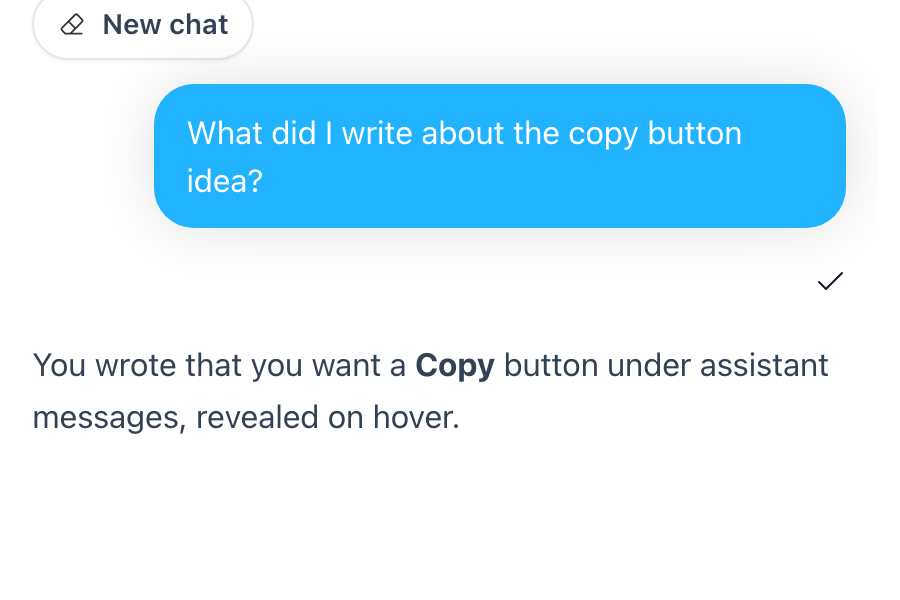
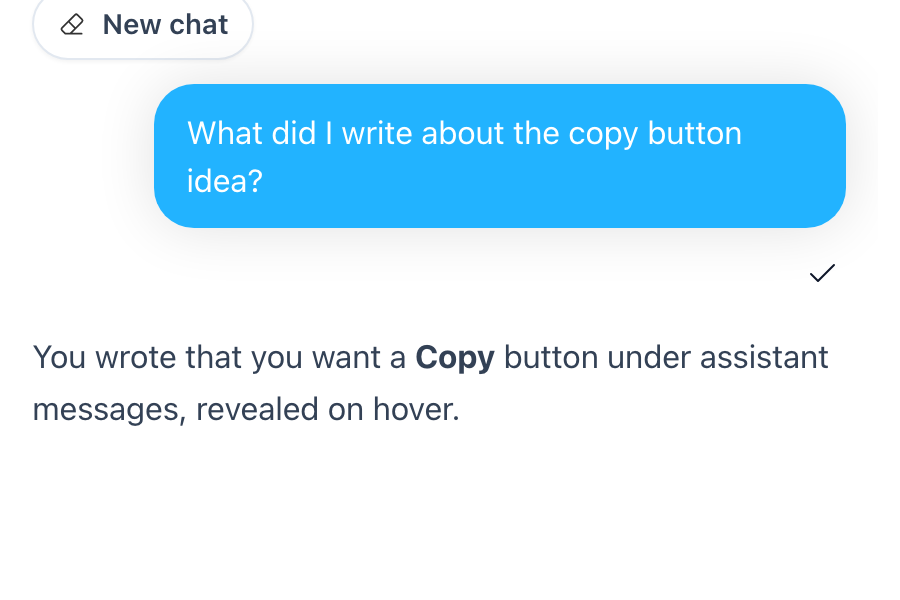
style: tuck the user copy action closer to the bubble

Changed region(s): [[0.0311, 0.57, 0.9333, 0.63], [0.0311, 0.66, 0.4978, 0.72], [0.9022, 0.45, 0.9333, 0.48]]

diff --git a/src/components/timeline/ChatMessageList.tsx b/src/components/timeline/ChatMessageList.tsx
@@ -31,7 +31,7 @@ function MessageCopyButton({ text, align }: { text: string; align: 'start' | 'en
     <button
       type="button"
       className={`hover-reveal inline-flex h-11 w-11 items-center justify-center rounded-lg text-slate-400 transition-colors hover:text-[var(--theme-text)] sm:h-9 sm:w-9 ${
-        align === 'end' ? '-mr-2 sm:-mr-2.5' : '-ml-2 sm:-ml-2.5'
+        align === 'end' ? '-mr-1 sm:-mr-1.5' : '-ml-2 sm:-ml-2.5'
       } ${
         status === 'copied'
           ? 'text-[var(--theme-accent-text)]'
@@ -87,7 +87,7 @@ export default function ChatMessageList({
           <div
             className={`group text-m ${
               message.role === 'user'
-                ? 'flex max-w-[85%] flex-col items-end space-y-2'
+                ? 'flex max-w-[85%] flex-col items-end space-y-1'
                 : 'w-full max-w-full space-y-2 text-left'
             }`}
           >
